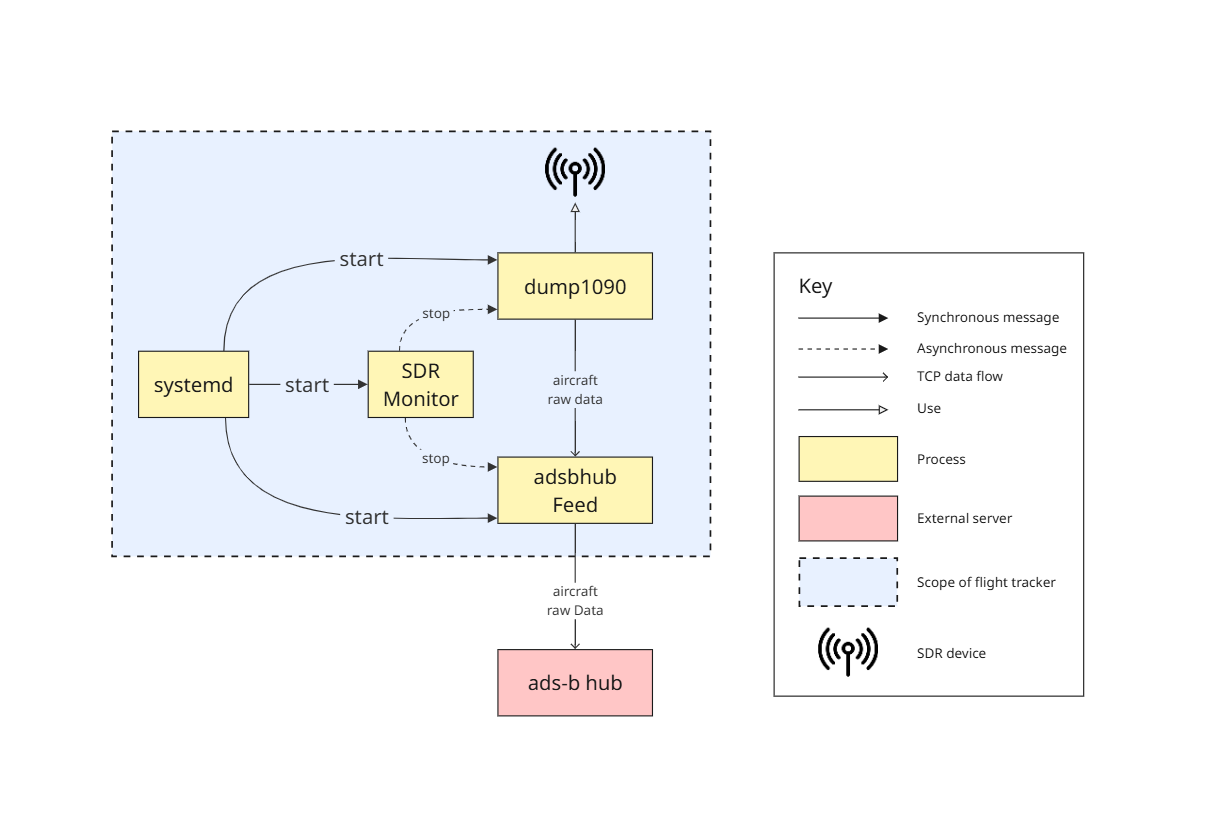
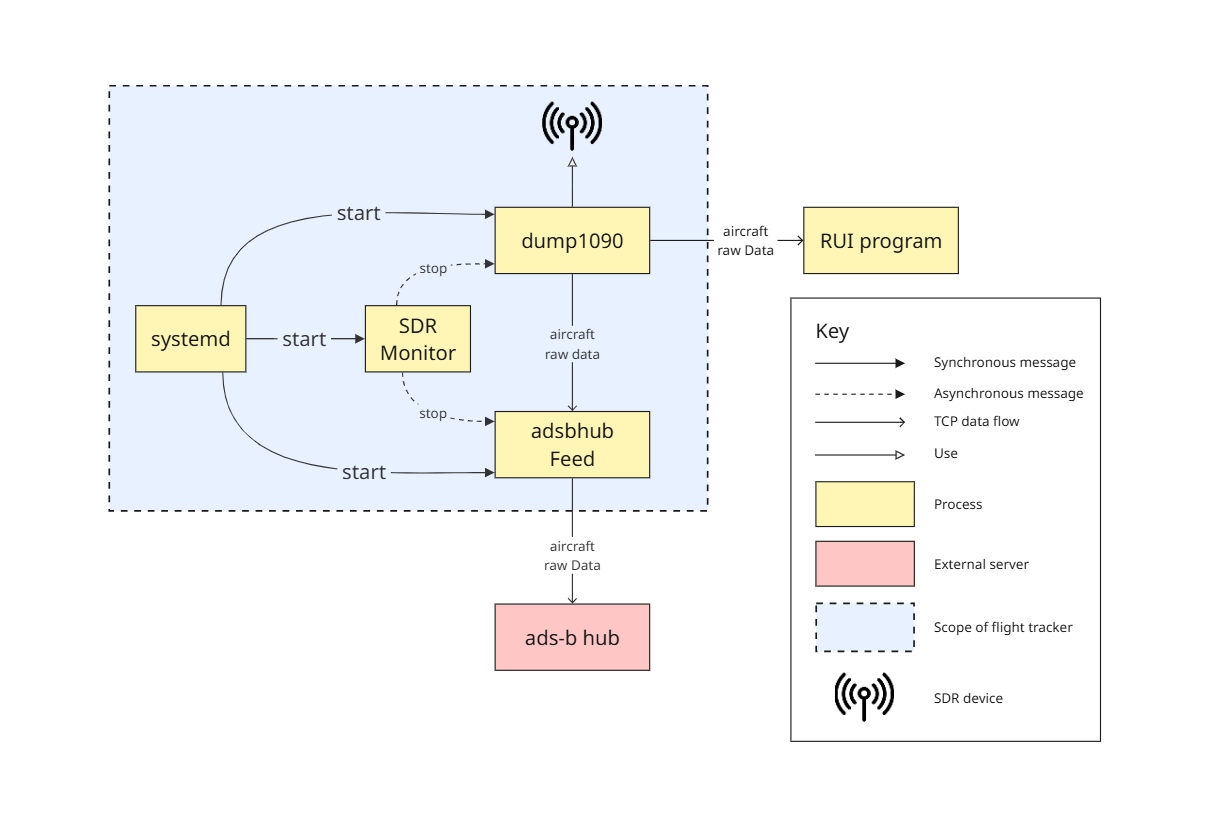
Fix resilient sdr monitoring cnc view

diff --git a/architecture/resilient-sdr-monitoring-cnc-view.md b/architecture/resilient-sdr-monitoring-cnc-view.md
@@ -13,9 +13,14 @@ This view documents the runtime structure of the Raspberry Pi-based Flight Track
 - Binary program that captures ADS-B signals from the SDR device
 - Runs continuously once the SDR is available
 
+#### RUI Program
+- Windows GUI program
+- Connects to dump1090 via TCP connection and get captured ADS-B data
+
 #### `adsbhub.sh`
 - Shell script that feeds captured ADS-B data to an external hub or aggregator
 - Depends on dump1090 being operational
+- Connects external hub via TCP connection
 
 #### `sdrmonitor.sh`
 - Shell script running in a polling loop
